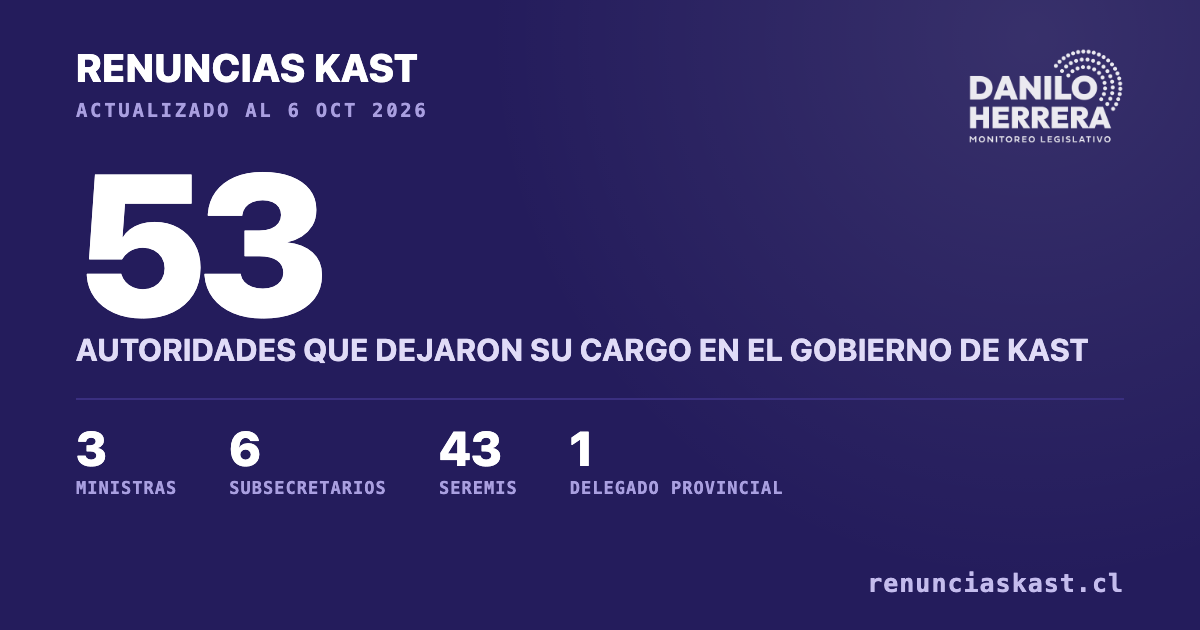
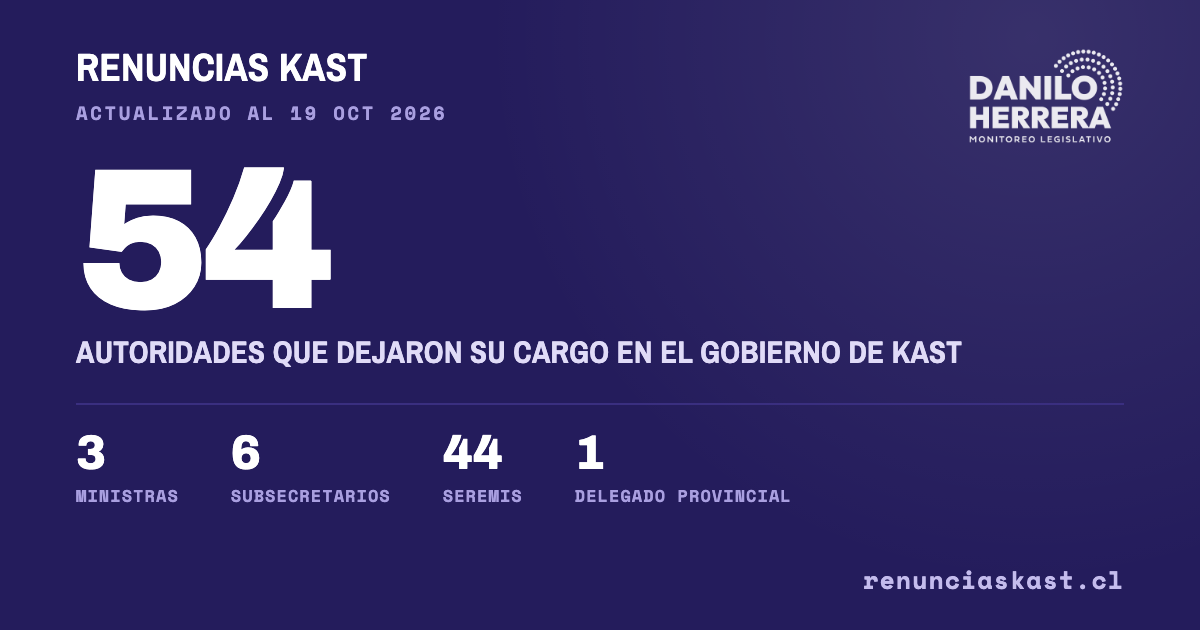
Agrega renuncia de seremi de Economía de Aysén (Rodrigo Aguilera), efectiva el 1 de noviembre

diff --git a/index.html b/index.html
@@ -193,7 +193,7 @@
     </div>
     <div class="sh-meta">
       <div><b>Fuente</b> Prensa</div>
-      <div><b>Actualización</b> 6 oct 2026</div>
+      <div><b>Actualización</b> 19 oct 2026</div>
     </div>
     <a class="sh-cta" href="https://app.reveniu.com/wp/checkout-custom-link/2O59Bc8JlvEC97c2IlGSEKhlH4GQngRX" target="_blank" rel="noopener">Haz tu aporte</a>
   </div>
@@ -203,13 +203,13 @@
 <header class="hero">
   <div class="wrap">
     <div class="tracker">
-      <div class="meta">Actualizado al 6 de octubre de 2026</div>
-      <div class="big">53</div>
+      <div class="meta">Actualizado al 19 de octubre de 2026</div>
+      <div class="big">54</div>
       <div class="cap">autoridades que dejaron su cargo<br class="mbr"> en el gobierno de José Antonio Kast</div>
       <div class="strip">
         <div><div class="sn">3</div><div class="sl">ministras</div></div>
         <div><div class="sn">6</div><div class="sl">subsecretarios</div></div>
-        <div><div class="sn">43</div><div class="sl">seremis</div></div>
+        <div><div class="sn">44</div><div class="sl">seremis</div></div>
         <div><div class="sn">1</div><div class="sl">delegado provincial</div></div>
         <div><div class="sn" id="avgDias">—</div><div class="sl"><span class="nowrap">días de gobierno</span><br class="mbr"> por salida</div></div>
       </div>
@@ -222,7 +222,7 @@
         <div class="ct-cell"><div class="ct-n" id="cMins">00</div><div class="ct-l">min</div></div>
         <div class="ct-cell"><div class="ct-n" id="cSecs">00</div><div class="ct-l">seg</div></div>
       </div>
-      <div class="ct-note"><span class="nowrap">Desde la renuncia del seremi de Obras Públicas de La Araucanía,</span><br class="mbr"> 6 de octubre a las 18:30 hrs.</div>
+      <div class="ct-note"><span class="nowrap">Desde el anuncio de la renuncia del seremi de Economía de Aysén,</span><br class="mbr"> 18 de octubre a las 18:00 hrs. Se hará efectiva el 1 de noviembre.</div>
     </div>
     <p class="method">Incluye renuncias, remociones, cambios de puesto y nombramientos que no llegaron a concretarse. Cada caso enlaza a una fuente de prensa.</p>
   </div>
@@ -358,6 +358,7 @@ const D = [
   {n:"Juan Pablo Rodríguez", tipo:"Subsecretario", sexo:"m", terr:"Nacional", min:"Hacienda", fecha:"23 jul", sk:723, jud:false, motivo:"Test de drogas", razon:"Removido tras dar positivo en test de drogas. Niega consumir y presentó un contraexamen negativo de la U. Católica", medio:"La Tercera", url:"https://www.latercera.com/politica/noticia/no-refleja-mi-realidad-exsubsecretario-de-hacienda-afirma-que-no-consume-drogas-y-atribuye-a-un-error-el-test-positivo-que-motivo-su-salida/"},
   {n:"Eduardo Leiva", tipo:"Seremi", terr:"Los Lagos", min:"Culturas", fecha:"22 jul", sk:722, jud:false, motivo:"Test de drogas", razon:"Renunció tras dar positivo en un examen de drogas. Niega consumir y presentó un contraexamen negativo de la U. de Chile", medio:"T13", url:"https://www.t13.cl/noticia/politica/exseremi-culturas-lagos-renuncio-tras-dar-positivo-examen-drogas-3-8-2026"},
   {n:"Marcelo Vergara", tipo:"Seremi", terr:"Arica y Parinacota", min:"Hacienda", fecha:"17 jul", sk:717, jud:false, motivo:"Test de drogas", razon:"Renuncia voluntaria, en medio de dudas por su test de drogas. Hacienda confirmó que dio positivo, pero se negó a entregar el informe completo", medio:"El Mostrador", url:"https://www.elmostrador.cl/aqui-arica/2026/09/01/hacienda-confirma-test-positivo-de-drogas-a-exseremi-republicano-pero-no-entrega-resultados/"},
+  {n:"Rodrigo Aguilera", tipo:"Seremi", terr:"Aysén", min:"Economía", fecha:"1 nov", sk:1101, jud:false, sexo:"m", motivo:"No informadas", razon:"Renuncia voluntaria por motivos personales. Anunciada el 18 de octubre", medio:"Ministerio de Economía", url:"https://www.economia.gob.cl/2026/10/18/comunicado-de-prensa-3.htm"},
   {n:"David Plaza", tipo:"Seremi", terr:"Araucanía", min:"Obras Públicas", fecha:"6 oct", sk:1006, jud:false, sexo:"m", motivo:"No informadas", razon:"Renuncia pedida por el Gobierno, sin motivo público detallado", medio:"ADN Radio", url:"https://www.adnradio.cl/2026/10/06/nueva-salida-en-el-gobierno-solicitan-la-renuncia-de-david-plaza-seremi-del-mop-de-la-araucania/"},
   {n:"Juan Carlos Meléndez", tipo:"Seremi", terr:"O'Higgins", min:"Economía", fecha:"30 sep", sk:930, jud:false, sexo:"m", motivo:"Cuestionamiento de gestión", razon:"Renuncia confirmada por el Ministerio de Economía tras una evaluación negativa de su gestión, en medio de las altas cifras de desempleo de la región. El 21 de septiembre la delegada presidencial había desmentido su salida", medio:"El Rancagüino", url:"https://www.elrancaguino.cl/2026/09/30/seremi-de-economia-en-ohiggins-renuncia-al-cargo/"},
   {n:"Kattia Durán", tipo:"Seremi", terr:"Metropolitana", min:"Desarrollo Social", fecha:"30 sep", sk:930, jud:false, sexo:"f", motivo:"No informadas", razon:"Renuncia voluntaria por razones de carácter familiar", medio:"ADN Radio", url:"https://www.adnradio.cl/2026/09/30/doble-salida-en-el-gobierno-dos-seremis-de-la-region-metropolitana-renuncian-en-menos-de-24-horas/"},
@@ -475,7 +476,7 @@ render();
 // "UN CAMBIO CADA X DÍAS" y "SIN CAMBIOS" — ambos en vivo, recalculados cada segundo contra la hora actual.
 // Actualizar ÚLTIMO_CAMBIO (fecha y hora) cada vez que se agregue una salida nueva a D.
 const INICIO_GOBIERNO=new Date(2026,2,11); // 11 mar 2026, asunción del gobierno
-const ULTIMO_CAMBIO=new Date(2026,9,6,18,30,0); // 6 oct 2026, 18:30 — renuncia seremi de Obras Públicas, Araucanía
+const ULTIMO_CAMBIO=new Date(2026,9,18,18,0,0); // 18 oct 2026, 18:00 — anuncio renuncia seremi de Economía, Aysén (efectiva el 1 nov)
 const totalCambios=D.filter(d=>d.sk>0).length;
 function tickCounter(){
   const now=new Date();
